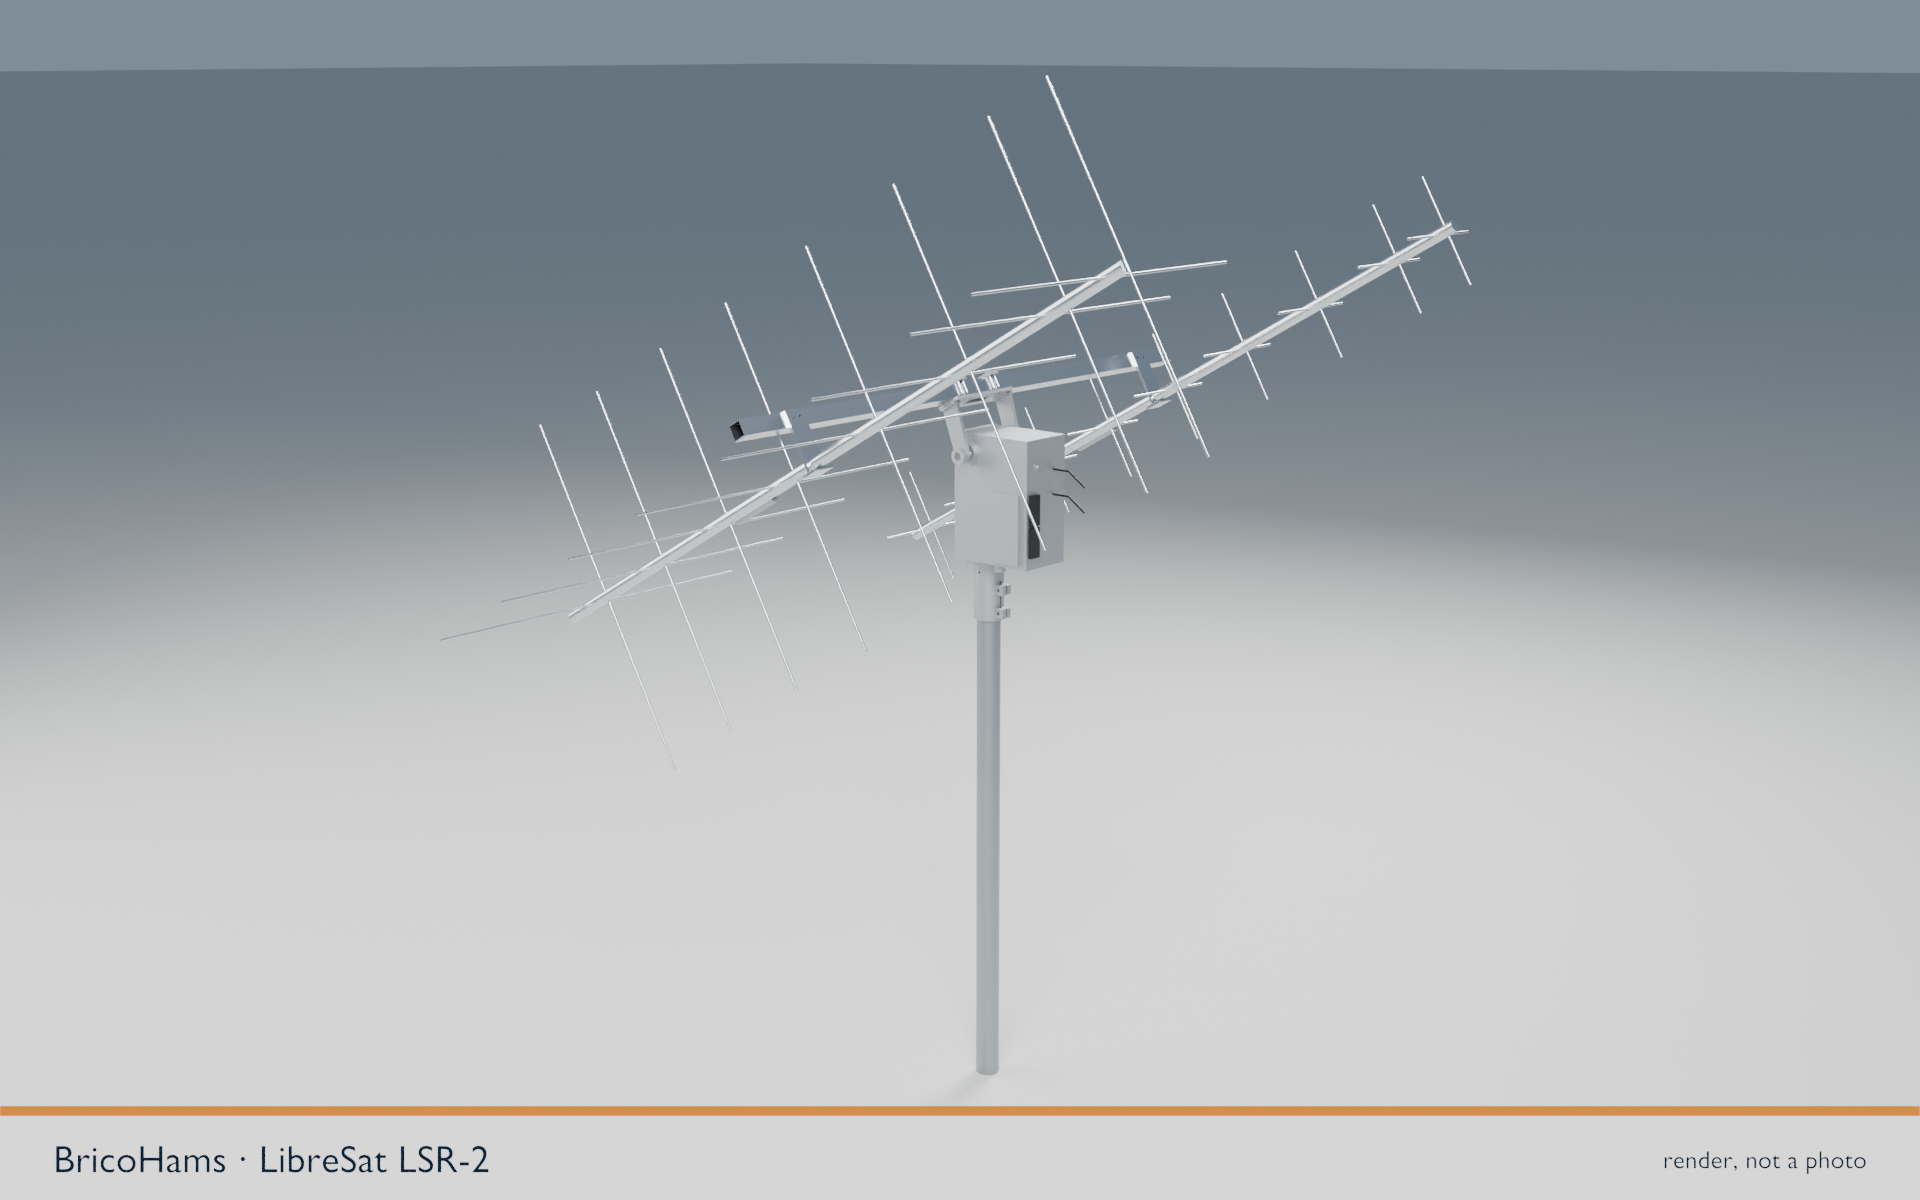
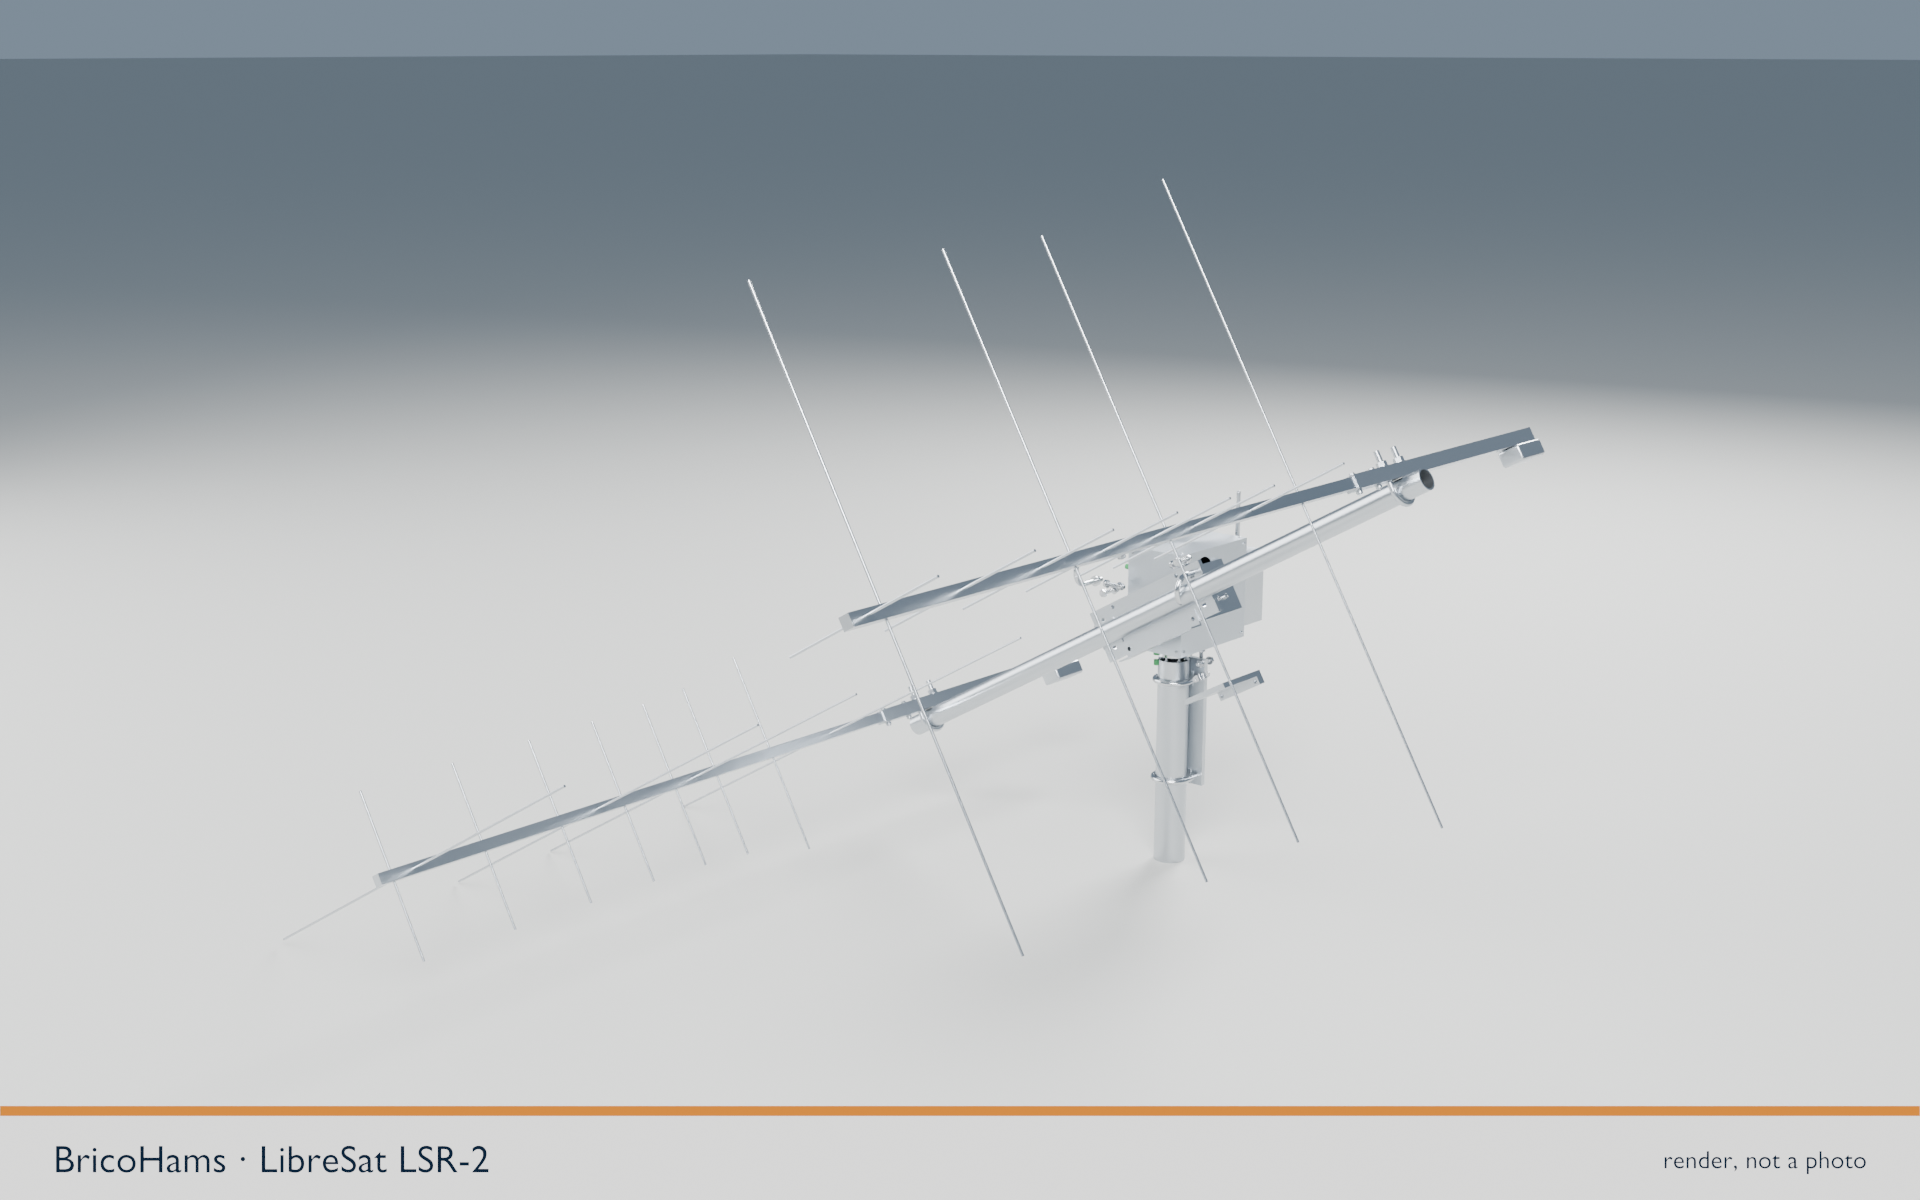
docs(rotor): LSR-2 is now a SARCTrac Mk4 replica (SARCNET, MIT)

diff --git a/README.md b/README.md
@@ -269,21 +269,25 @@ con esta estacion: LSR-1 es el modelo portatil y LSR-2 el fijo pesado.
 
 Cifras principales publicadas en ese repositorio (LSR-2):
 
-- Motorizacion: 2 x reductor NMRV030 80:1 + motor NEMA23.
+- Motorizacion: 2 x reductor NMRV30 50:1 + motor NEMA23 23HS32-4004S
+  (2,4 N·m) con drivers DM542T a 48 V.
 - Recorrido: AZ ±360°, EL −30…150°; velocidad 12°/s.
-- Disposicion Mk5: placa vertical con el reductor EL arriba y el AZ abajo,
-  motores en el mismo lado, eje EL pasante con brackets, silla y boom
-  con brazos, antenas y contrapesos; caja lateral con la electronica.
-- Piezas en aluminio A356 fundido (ruta A) o mecanizado CNC (ruta B).
-- Autocalibracion con GPS/sol.
-- Precision objetivo < 0,1°, como el SARCTrac Mk5.
+- Diseno: replica del SARCTrac Mk4 de SARCNET. Placa de aluminio de 10 mm
+  con los dos reductores, cubierta de chapa de 2 mm cortada por laser,
+  silla con U-bolts, brazos de tubo cuadrado de 25 mm, rodamiento axial y
+  caja Deltron con Wemos D1 Mini Pro (WiFi) y sensores Hall de indice.
+- Coste estimado unos 901 EUR y 15,9 kg (cabeza y electronica, sin mastil
+  ni antenas). El diseno fundido/CNC anterior queda como
+  variante opcional.
+- Precision objetivo < 0,1°.
 
-LSR-2 es un rediseno propio que sigue los datos publicados del SARCTrac Mk5
-(credito a SARCNET); no se ha usado ningun archivo de SARCNET.
+LSR-2 usa los archivos FreeCAD del SARCTrac Mk4 de SARCNET bajo licencia
+MIT (credito a SARCNET; copia y procedencia en `third_party/sarctrac-mk4`
+de libresat-rotator).
 
-![LSR-2: rotor sobre el mastil con boom, dos Yagis y contrapesos (render)](docs/img/lsr2_hero.png)
+![LSR-2 (replica Mk4): rotor sobre el mastil con dos Yagis cruzadas (render)](docs/img/lsr2_hero.png)
 
-![LSR-2: modelo de disposicion Mk5 en Fusion, placa vertical, reductores, motores y caja de electronica](docs/img/lsr2_mk5_layout_head.png)
+![LSR-2 (replica Mk4): cabeza sin cubierta, reductores, silla y brazos (render)](docs/img/lsr2_head_closeup.png)
 
 Esta estacion los controla con
 `python -m rotor --backend rotctld --host <ip> --port 4533 [--model lsr-1|lsr-2]`
